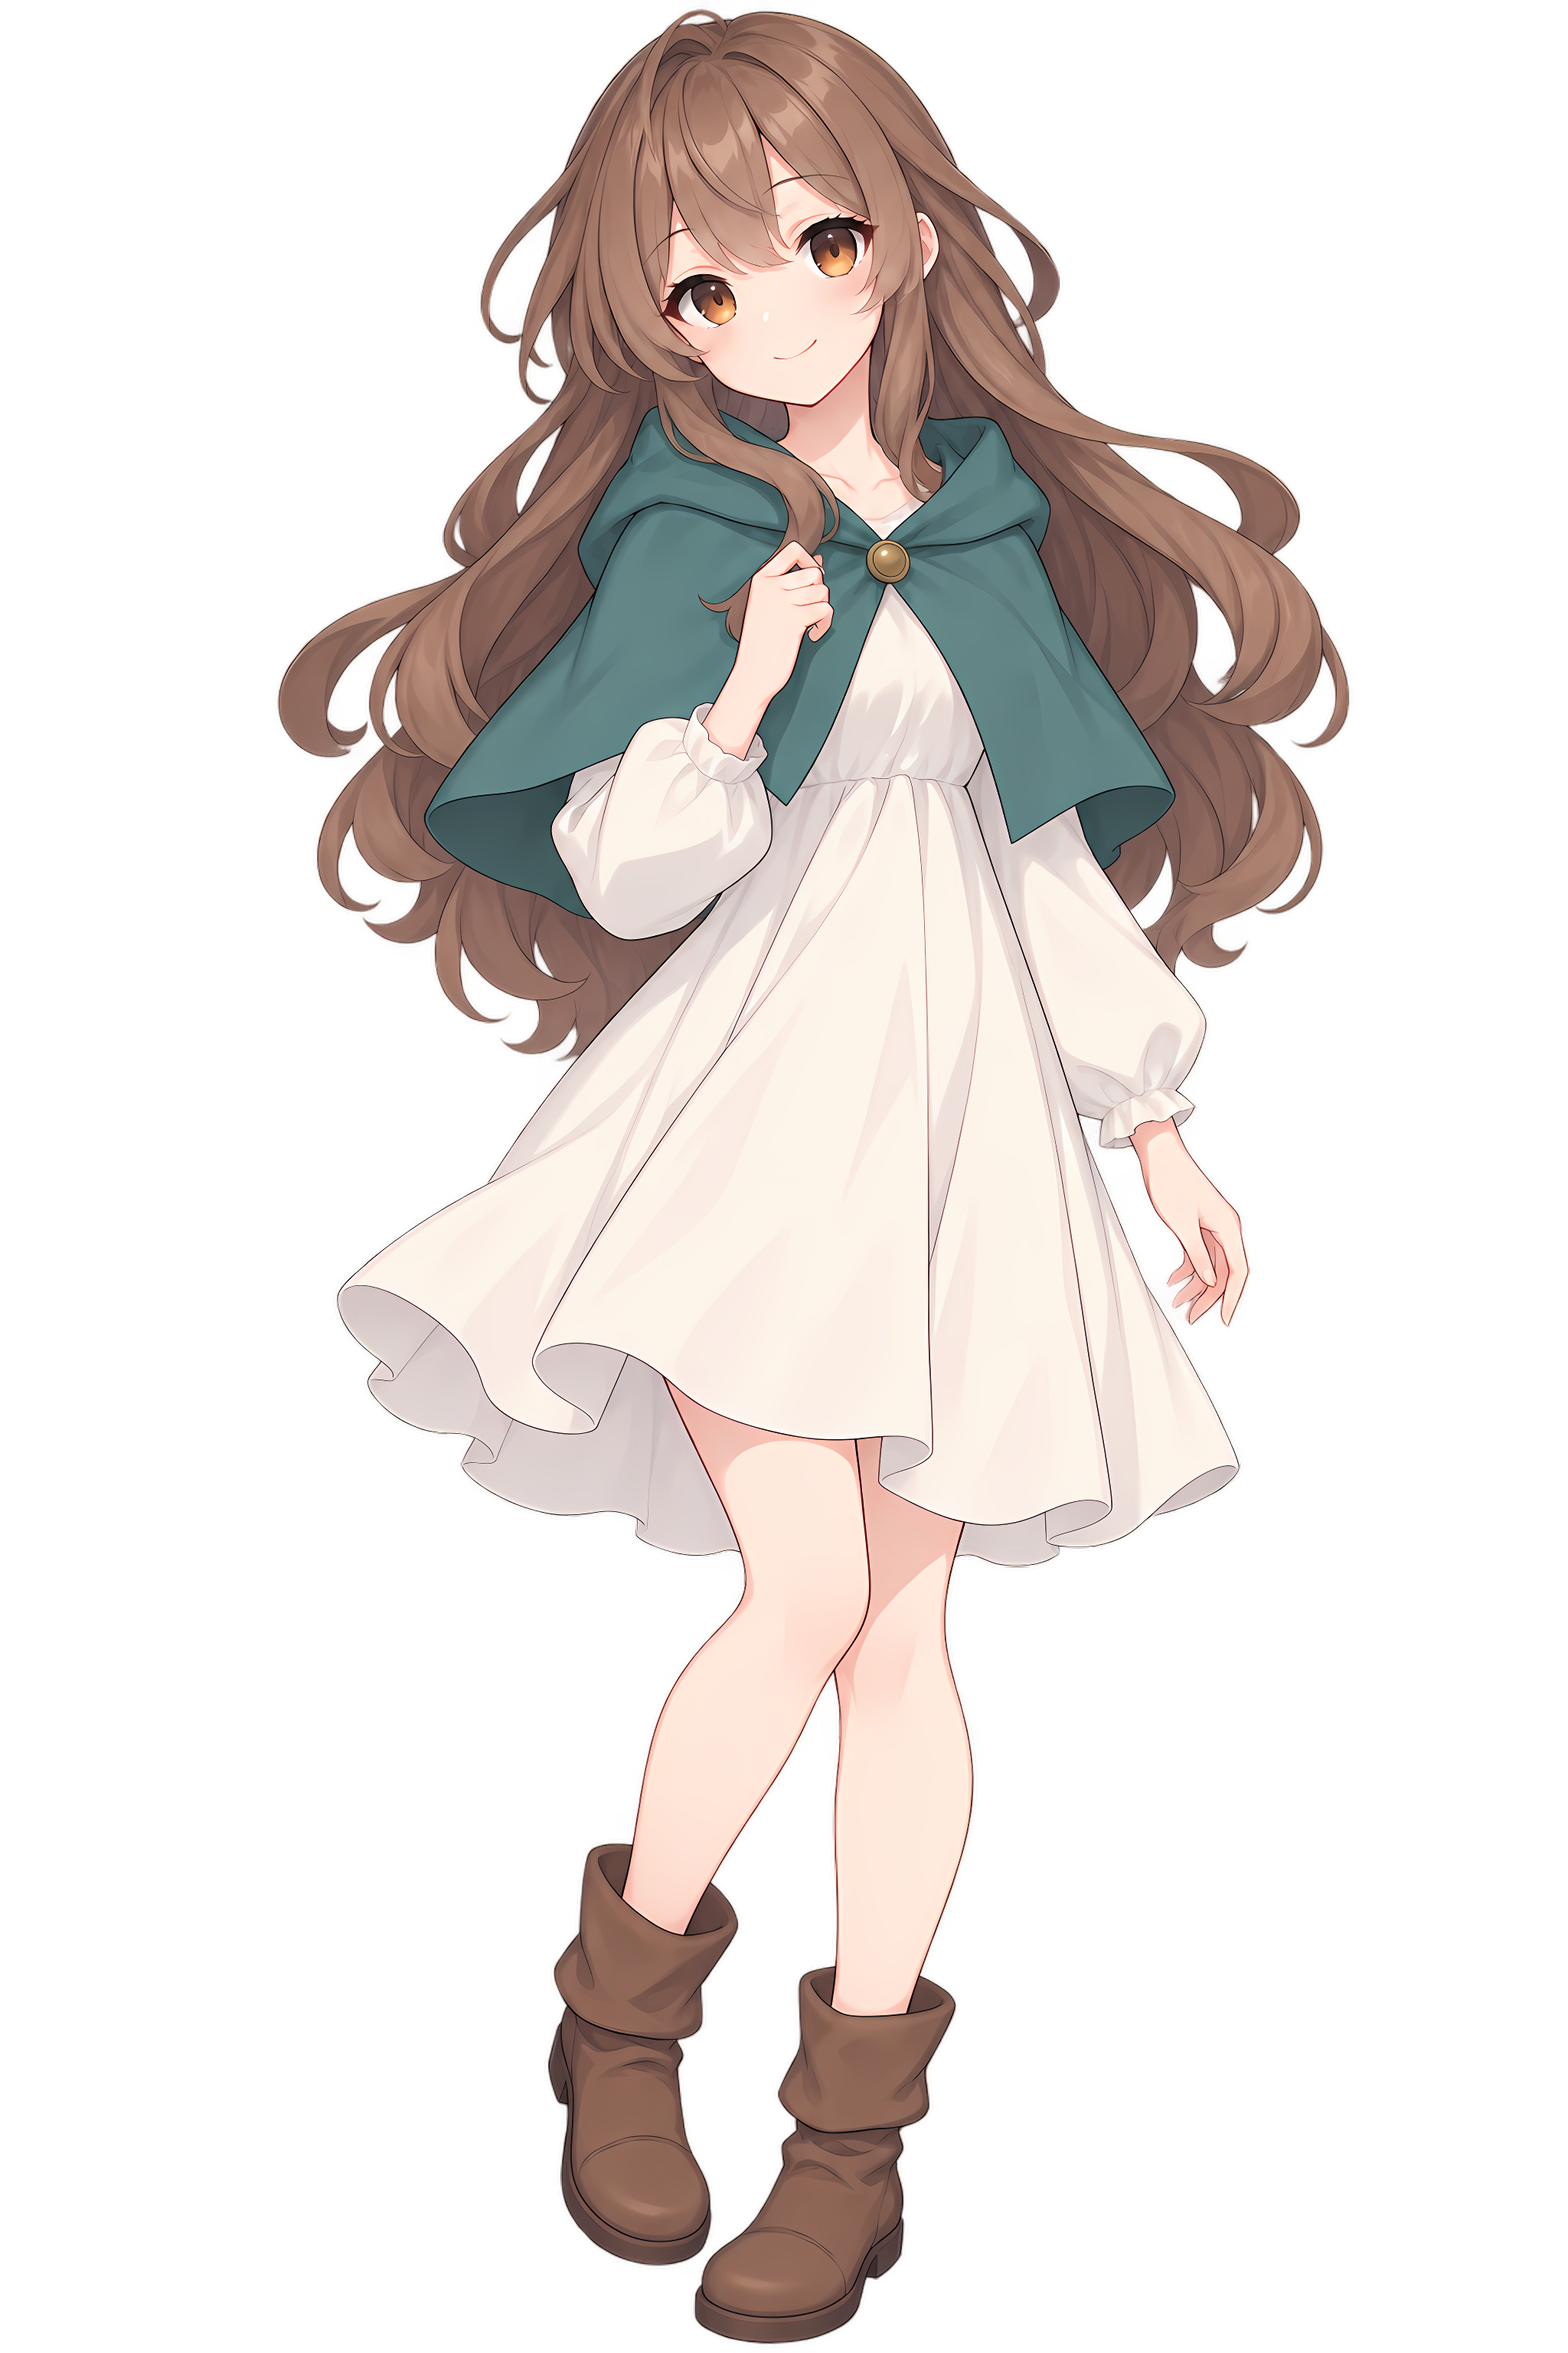
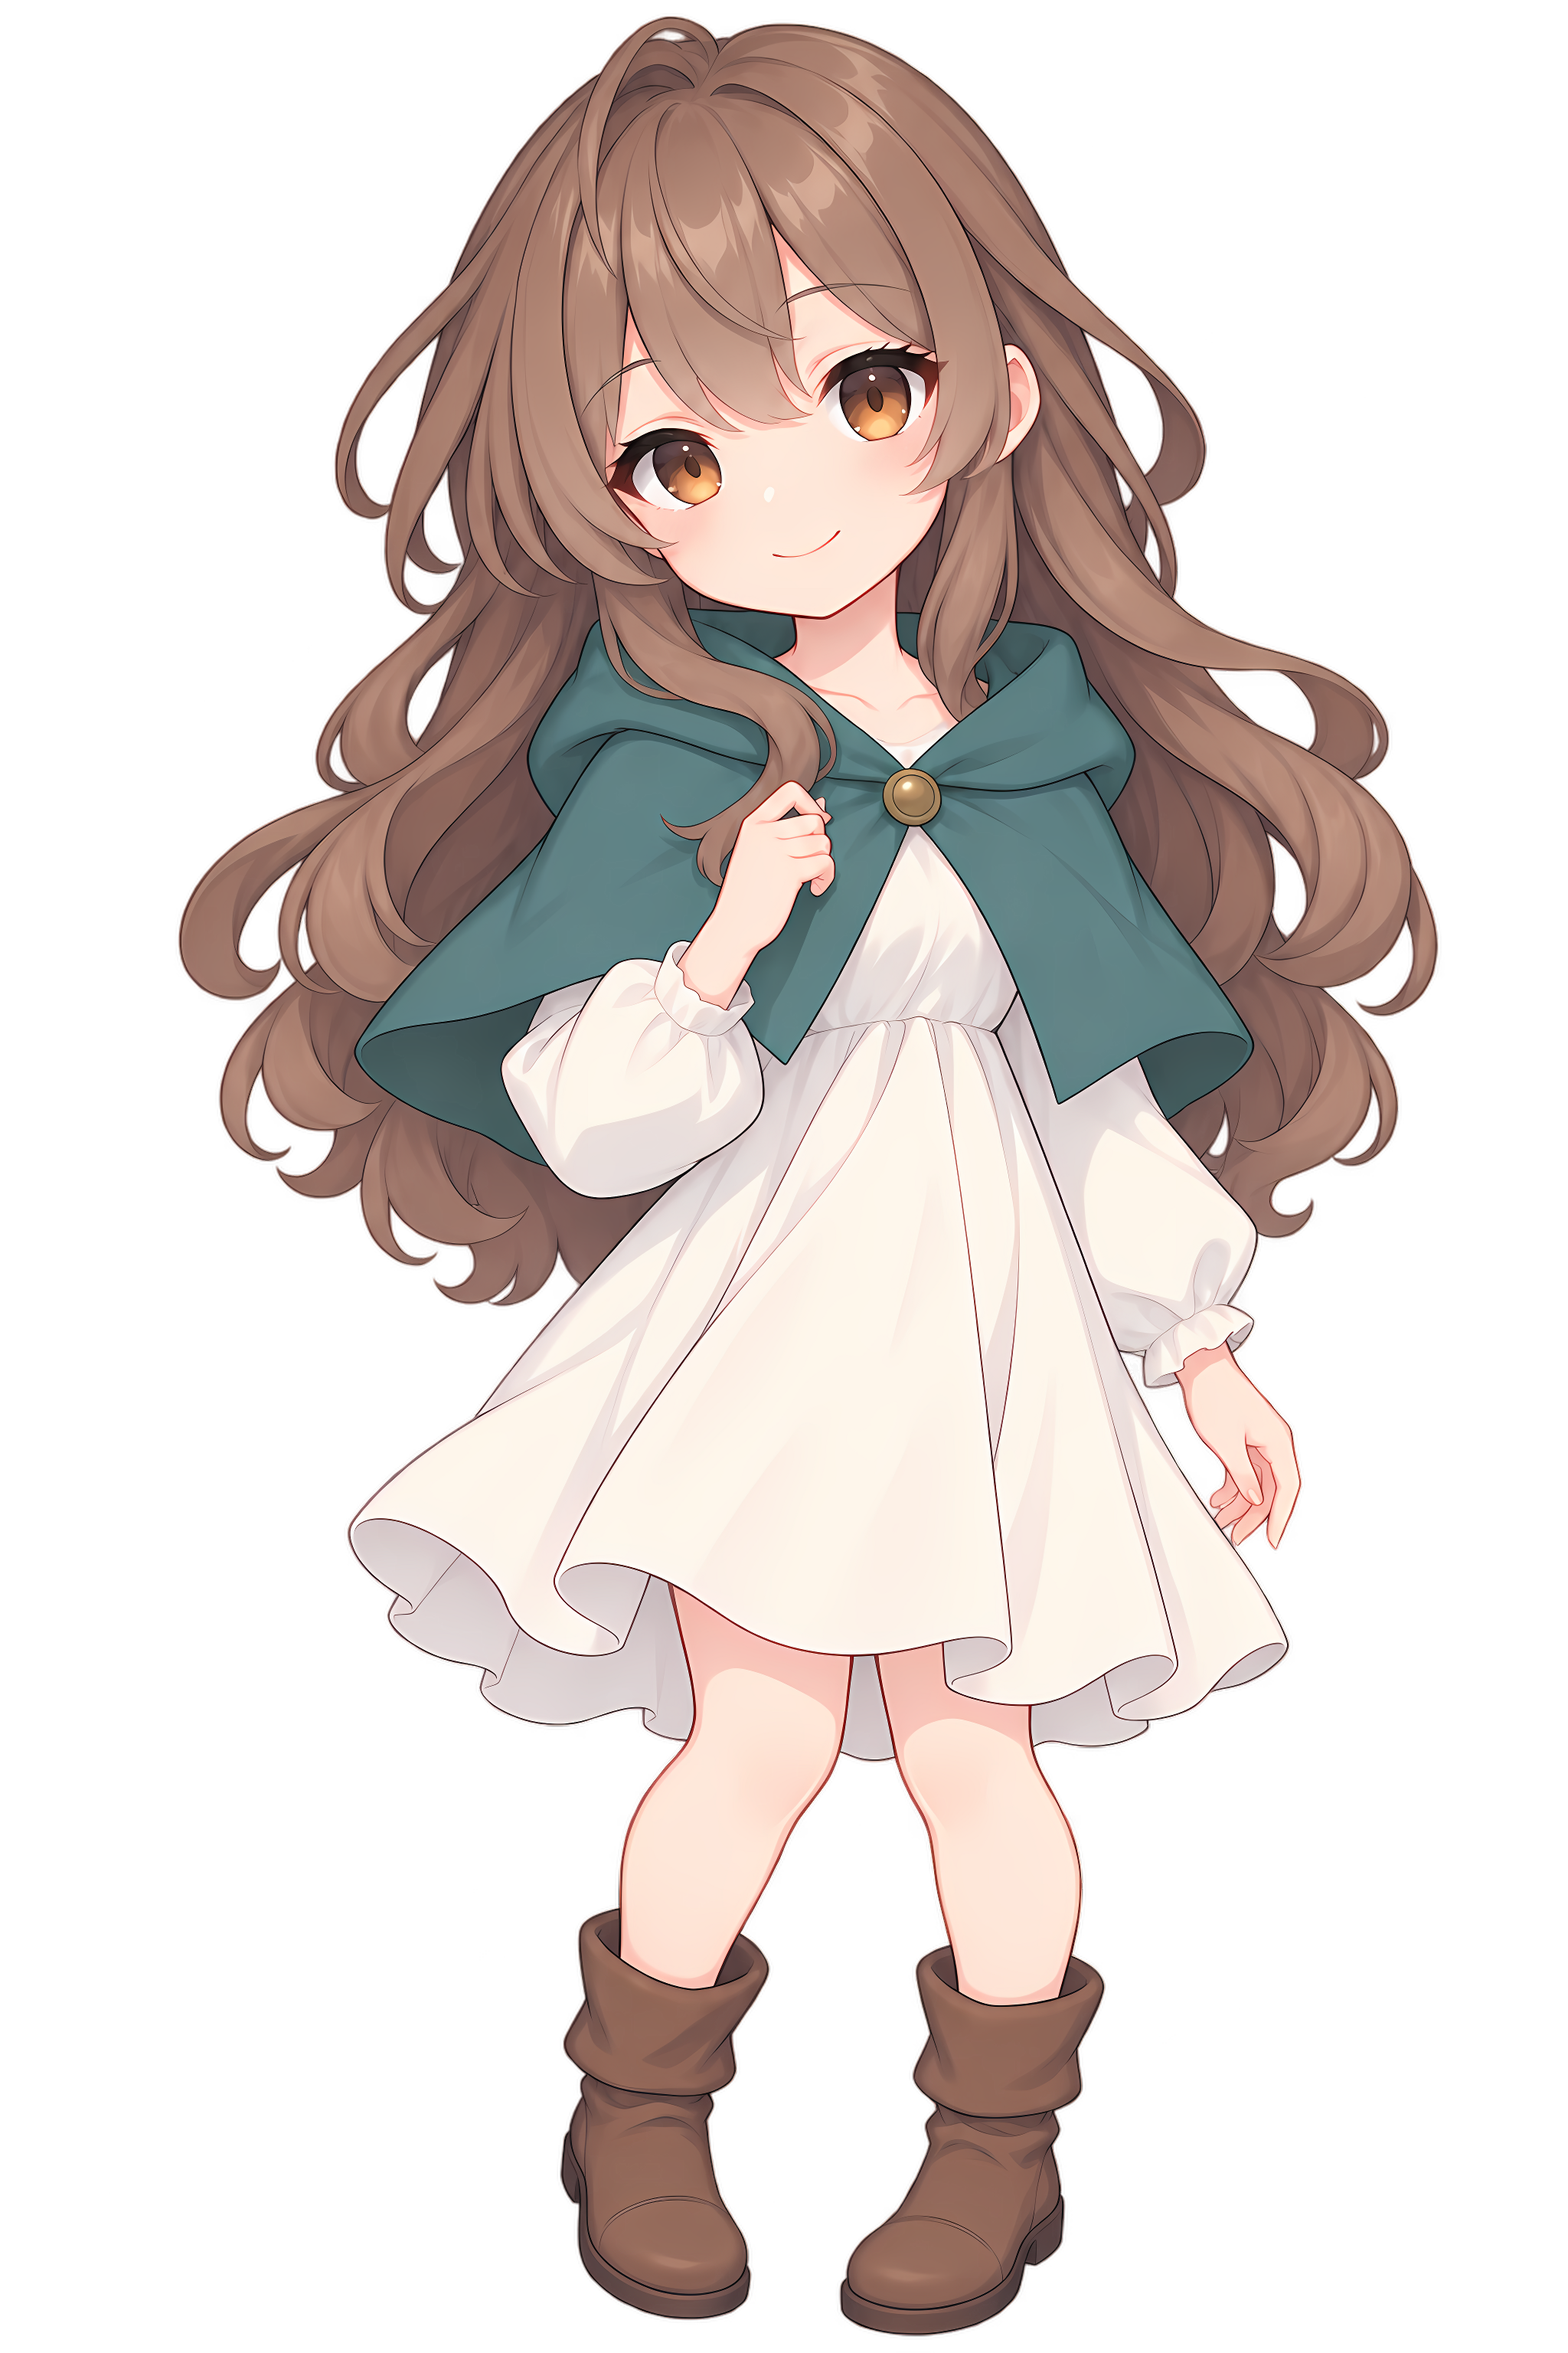
Adjust heroine portrait to moderately chibi proportions

diff --git a/docs/SemiSDPortrait.md b/docs/SemiSDPortrait.md
@@ -1,0 +1,9 @@
+# Slightly more SD portrait
+
+User requested proportion adjustment while preserving the face and outfit. Do not judge character suitability by matching the current background colors: the background will change.
+
+Built-in GPT Image edit of the prior HeroinePortrait.png. Output assets/HeroinePortrait.png upscaled to 2x with existing RealESRGAN_x4plus_anime_6B tooling. Board head remains unchanged in this portrait-only iteration.
+
+## Prompt
+
+Edit this exact heroine portrait to be moderately more chibi / Japanese semi-SD, about FOUR heads tall from crown to boot sole instead of the current tall proportions. Noticeably enlarge head relative to body by about 20 percent and shorten torso and legs, while retaining an elegant adult anime heroine identity. Preserve her exact friendly face design, amber eyes, chestnut long hair, teal short capelet with single round clasp, plain ivory dress and brown boots, and the same clean Japanese RPG rendering style. Do not redesign costume or add accessories. Keep graceful broad hair masses but scale their length with the shorter body. Natural grounded standing pose, feet gently apart instead of crossing, one hand touching cape and other relaxed at side. Slightly rounder compact silhouette, NOT two-head toddler proportions. Whole body visible with safe margins, actual transparent background, no halo or backdrop, no text or shadow. The sole design change is a clearly shorter, slightly bigger-headed proportion.

diff --git a/AGENTS.md b/AGENTS.md
@@ -8,6 +8,7 @@
 - Intermediate room clears open an exit on the top-center tile; no next-room modal/button. Show two reusable exploration cards, short and diagonal, independent of the combat deck. Movement requires their legal offsets but spends no actions or turns. Enter the exit to advance and heal. Preserve cleared-room state when visiting home. Disable browser context menus; right-click must not change selection.
 - Only the redesigned long-haired heroine is playable (HeroineHead.png / HeroinePortrait.png). No male character, character picker, or saved character selection. Portrait remains display-only.
 - Keep UI minimal. Reuse the approved PNG art; when new art is requested, use built-in imagegen with broad silhouettes and few details.
+- Judge character art by its proportions, readability, and intended game style, not color matching the current background (the user will replace it). Current home portrait is a moderately SD chestnut-haired heroine; keep the face and simple outfit. See docs/SemiSDPortrait.md. Use 2x upscaled output for portraits.
 - Card data and rules must stay separate from rendering. Preview must match the committed result.
 - Verify with npm test, npm run typecheck, browser pointer checks and a real Tauri/WebView2 window.
 - Save local Git checkpoints. Do not publish remotely or create ZIP packages unless requested.
